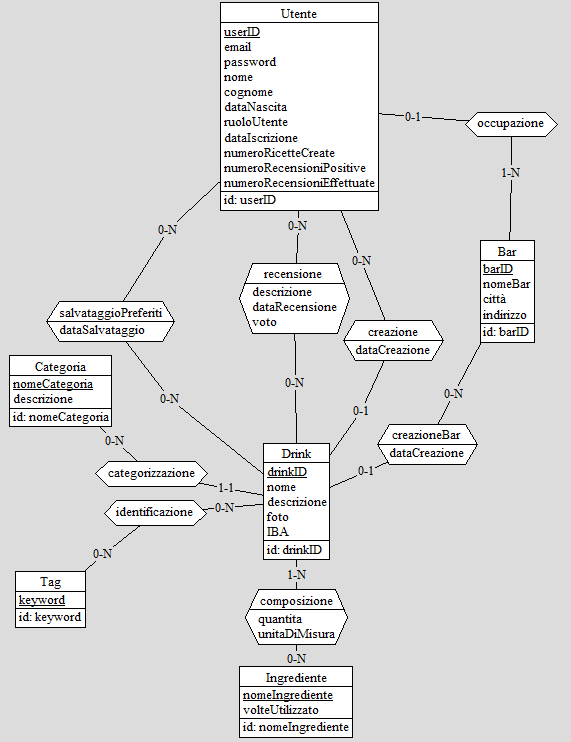
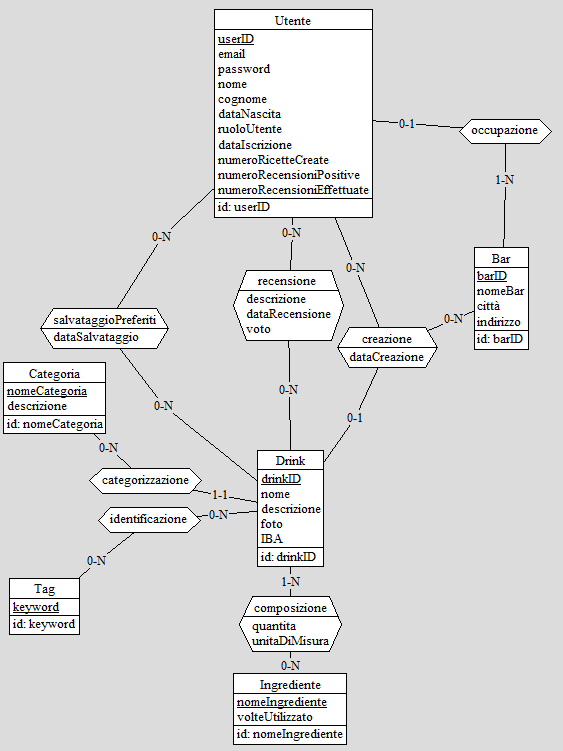
final tex changes

diff --git a/src/main/tex/main.tex b/src/main/tex/main.tex
@@ -32,15 +32,15 @@ Si vuole progettare un database su cui creare un'applicazione desktop per visual
 \end{flushleft}
 
 \subsection{Intervista}
-L'obiettivo principale è la progettazione e lo sviluppo di un database a supporto di un'applicazione desktop pensata per gli appassionati di mixology. La piattaforma si presenta come un raccoglitore digitale in cui, inizialmente, il sistema metterà a disposizione un catalogo preimpostato, contenente tutti i cocktail ufficialmente riconosciuti dall'IBA (International Bartenders Association), aggiornati fino ad una certa data, ma sarà possibile inserire nuove creazioni.\\
+L'obiettivo principale è la progettazione e lo sviluppo di un database a supporto di un'applicazione desktop pensata per gli appassionati di mixology. La piattaforma si presenta come un raccoglitore digitale in cui, inizialmente, il sistema metterà a disposizione un catalogo preimpostato, contenente i cocktail più celebri, ufficialmente riconosciuti dall'IBA (International Bartenders Association), aggiornati fino ad una certa data, ma sarà possibile inserire nuove creazioni.\\
 \\
 La \textbf{parte centrale} dell'applicativo è la seguente:\\
-Ogni drink, che sia un classico IBA o una creazione originale, sarà descritto in maniera precisa e comprenderà informazioni importanti sui suoi ingredienti e sulla preparazione. Il sistema terrà traccia non solo del nome e dell'eventuale utente creatore, ma anche dell'anno di ideazione, della categoria di appartenenza e di una descrizione generale.\\
-In pratica, verranno memorizzati gli ingredienti necessari compresi di foto keywords per facilitarne l'individuazione e la categorizzazione.\\
-Gli utenti si interfacceranno con il sistema tramite tre livelli di accesso:\\
-gli utenti  non registrati potranno esplorare il catalogo senza interagirvi: non potranno creare ricette, scrivere recensioni ...\\
-Al contrario, un utente registrato diventerà parte attiva della community: potrà arricchire il database creando e pubblicando nuovi drink personalizzati. Inoltre, sarà possibile salvare i drink nella sezione \textit{"preferiti"}, aggiungere recensioni testuali alle ricette ed esportare (salvando su file) i dati di un drink, per poter condividere la ricetta.\\
-Il sistema prevede la registrazione di \textbf{bar}. Ogni bar è associato ad un certo numero di \textit{utenti registrati}, da cui possono aggiungere una \textbf{creazione di gruppo}.
+Ogni drink, che sia un classico IBA o una nuova creazione, sarà descritto in maniera precisa e comprenderà informazioni importanti sulla sua composizione. Il sistema terrà traccia non solo del nome e dell'eventuale utente creatore, ma anche della categoria di appartenenza e di una descrizione generale.\\
+In pratica, verranno memorizzati gli ingredienti necessari compresi di foto e keywords per facilitarne l'individuazione e la categorizzazione.\\
+Gli utenti si interfacceranno con il sistema tramite due livelli di accesso:\\
+gli \textbf{utenti  non registrati} potranno esplorare il catalogo senza interagirvi: non potranno creare ricette, scrivere recensioni ...\\
+Al contrario, un \textbf{utente registrato} diventerà parte attiva della community: potrà arricchire il database creando e pubblicando nuovi drink personalizzati. Inoltre, sarà possibile salvare i drink nella sezione \textit{"preferiti"}, aggiungere recensioni testuali alle ricette ed esportare (salvando su file) i dati di un drink, per poter condividere la ricetta.\\
+Il sistema prevede la registrazione di \textbf{bar}. Ogni bar è associato ad un certo numero di \textit{utenti registrati}, da cui possono aggiungere una creazione "di gruppo".
 \\
 Per navigare nell'archivio, l'applicazione fornirà un motore di ricerca in cui gli utenti potranno cercare un drink non solo per nome, ma anche filtrando per gusti (ad esempio "dolce", "amaro", "fruttato"), per specifici ingredienti (come "gin" o "fragola"), o sfruttando le parole chiave inserite liberamente dai creatori.\\
 \\
@@ -81,7 +81,7 @@ Vi sarà la possibilità, solo per utenti specifici, di accedere come "admin", p
 \subsubsection{Più specificatamente, per un utente registrato, il programma offrirà le seguenti funzionalità:}
 \begin{enumerate}
     \item salvataggio di drink nella scheda personale “preferiti”;
-    \item Salvataggio su file dei dati dei drink;
+    \item Salvataggio su file pdf dei dati dei drink;
     \item Ricerca di un drink tramite parole chiave.
 \end{enumerate}
 
@@ -283,7 +283,7 @@ Tutti gli utenti registrati e amministratori possono condividere ricette, salvar
 \subsection{Raffinamento dello schema}
 \label{raffinamentoSchema}
 \subsubsection{Eliminazione delle gerarchie}
-Per l'eliminazione della gerarchia su "Utente" si è deciso di applicare un collasso verso l'alto, dato il numero di attributi e la relazione in comune. Per distinguere amministratori e utenti, si è deciso di aggiungere un attributo "ruoloUtente" (amministratore/registrato), in modo tale da distinguere i due ruoli.
+Per l'eliminazione della gerarchia su "Utente" si è deciso di applicare un collasso verso l'alto, dato il numero di attributi e la relazione in comune. Per distinguere amministratori e utenti, si è deciso di aggiungere un attributo "ruoloUtente" (Admin/User), in modo tale da distinguere i due ruoli.
 
 \subsubsection{Eliminazione degli attributi composti}
 Lo schema non presenta attributi composti: i concetti che potrebbero richiederlo sono già stati modellati tramite attributi.
@@ -700,7 +700,7 @@ Per questo motivo, verrà usata la versione con ridondanza.
 \textbf{Utenti} (\underline{userID}, email, password, nome, cognome, dataNascita, ruoloUtente, dataIscrizione, numeroRicetteCreate, numeroRecensioniPositive, numeroRecensioniEffettuate)\\
 \textbf{occupazioni} (Utenti: \underline{userID}, Bar: \underline{barID})\\
 \textbf{Bar} (\underline{barID}, nomeBar, città, indirizzo)\\
-\textbf{creazioni} (Utenti: \underline{userID}, Drink: \underline{drinkID}, dataCreazione)\\
+\textbf{creazioni} (Utenti: \underline{userID}, Drink: \underline{drinkID}, barID*,  dataCreazione)\\
 \textbf{recensioni}: (Utenti: \underline{userID}, Drink: \underline{drinkID}, descrizione, dataRecensione, voto)\\
 \textbf{salvataggioPreferiti}: (Utenti: \underline{userID}, Drink: \underline{drinkID}, dataSalvataggio)\\
 \textbf{Drink} (\underline{drinkID}, nomeCategoria, nome, descrizione, foto, nomeCategoria, IBA)\\
